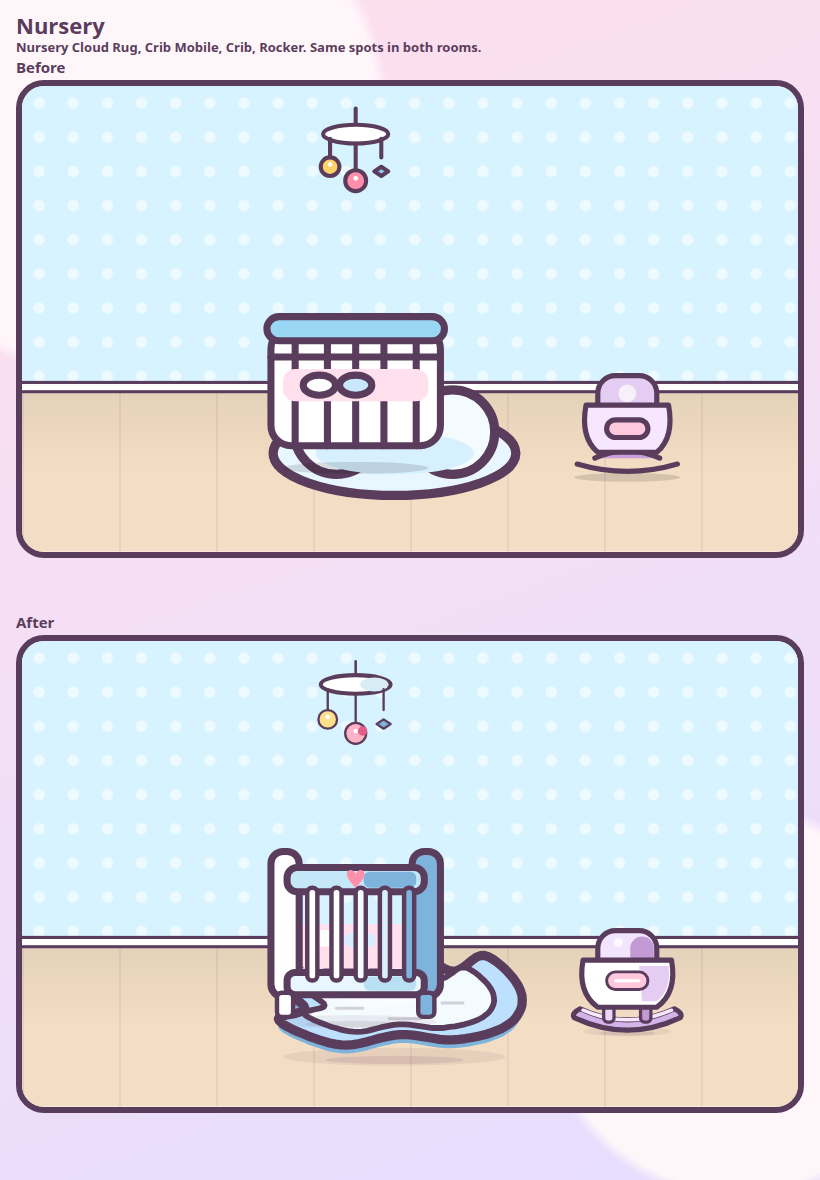
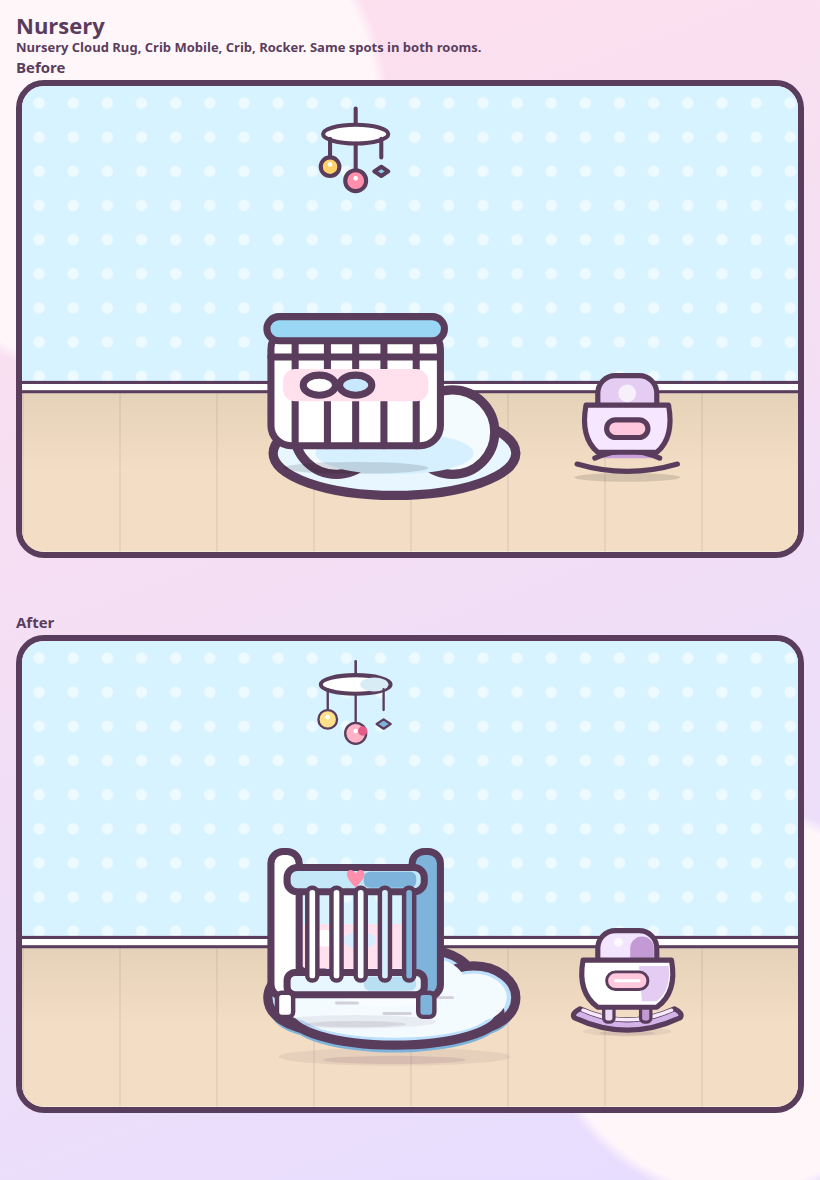
Draw the nursery cloud rug as a flat puffy cloud.
The outline is a smooth scallop with a bound border, light pile, and a contact shadow, at the same footprint as Sunny Cloud and Cloud Rug.

Changed region(s): [[0.3354, 0.7932, 0.6402, 0.9153], [0.3049, 0.8237, 0.3354, 0.8542]]

diff --git a/src/art/hand.ts b/src/art/hand.ts
@@ -232,12 +232,26 @@ export const HAND: Record<string, V2Mark> = {
   `) },
 
   'cloud-rug': { vb: VB, body: pack(`
-    ${sh(50, 42)}
-    <g transform="translate(0,3.2)"><path d="M16 78 L15.6 77 L14.4 75.9 L12.7 74.6 L10.9 73.3 L9 71.9 L7.4 70.5 L6.3 69.2 L6 68 L6.4 66.8 L7.4 65.6 L8.8 64.3 L10.5 63.1 L12.4 62 L14.3 61.1 L16.3 60.4 L18 60 L19.7 60 L21.4 60.4 L23.2 61.1 L25 62 L26.8 62.9 L28.6 63.6 L30.3 64 L32 64 L33.6 63.5 L35.1 62.7 L36.6 61.5 L38 60.3 L39.4 58.9 L40.9 57.7 L42.4 56.7 L44 56 L45.7 55.6 L47.4 55.3 L49.1 55.1 L50.9 55 L52.7 55.1 L54.5 55.3 L56.2 55.6 L58 56 L59.8 56.7 L61.5 57.8 L63.3 59 L65.1 60.4 L66.9 61.7 L68.6 62.8 L70.3 63.6 L72 64 L73.6 63.8 L75.1 63.1 L76.6 62.1 L78.1 60.9 L79.6 59.7 L81 58.7 L82.5 58.1 L84 58 L85.6 58.5 L87.2 59.4 L88.9 60.6 L90.6 62 L92.2 63.5 L93.7 65.1 L95 66.6 L96 68 L96.8 69.3 L97.4 70.5 L97.9 71.8 L98.3 73.1 L98.4 74.4 L98.4 75.6 L98.3 76.8 L98 78 L97.5 79.1 L96.9 80.2 L96.2 81.3 L95.3 82.4 L94.2 83.4 L92.9 84.3 L91.5 85.2 L90 86 L88.2 86.7 L86.3 87.4 L84.1 88.1 L81.8 88.6 L79.3 89.1 L76.9 89.5 L74.4 89.8 L72 90 L69.6 90 L67.1 89.8 L64.6 89.4 L62.1 89 L59.6 88.6 L57 88.2 L54.5 88 L52 88 L49.5 88.3 L46.9 88.8 L44.3 89.4 L41.8 90.1 L39.2 90.8 L36.7 91.4 L34.3 91.8 L32 92 L29.8 91.9 L27.6 91.6 L25.4 91.2 L23.4 90.6 L21.4 90 L19.5 89.3 L17.7 88.7 L16 88 L14.3 87.3 L12.6 86.6 L10.9 85.8 L9.4 85 L8 84.2 L7 83.4 L6.3 82.7 L6 82 L6.4 81.4 L7.6 81 L9.2 80.6 L11 80.3 L12.8 79.9 L14.4 79.4 L15.6 78.8 Z" fill="#7eb4dc"/></g>
-    <path d="M16 78 L15.6 77 L14.4 75.9 L12.7 74.6 L10.9 73.3 L9 71.9 L7.4 70.5 L6.3 69.2 L6 68 L6.4 66.8 L7.4 65.6 L8.8 64.3 L10.5 63.1 L12.4 62 L14.3 61.1 L16.3 60.4 L18 60 L19.7 60 L21.4 60.4 L23.2 61.1 L25 62 L26.8 62.9 L28.6 63.6 L30.3 64 L32 64 L33.6 63.5 L35.1 62.7 L36.6 61.5 L38 60.3 L39.4 58.9 L40.9 57.7 L42.4 56.7 L44 56 L45.7 55.6 L47.4 55.3 L49.1 55.1 L50.9 55 L52.7 55.1 L54.5 55.3 L56.2 55.6 L58 56 L59.8 56.7 L61.5 57.8 L63.3 59 L65.1 60.4 L66.9 61.7 L68.6 62.8 L70.3 63.6 L72 64 L73.6 63.8 L75.1 63.1 L76.6 62.1 L78.1 60.9 L79.6 59.7 L81 58.7 L82.5 58.1 L84 58 L85.6 58.5 L87.2 59.4 L88.9 60.6 L90.6 62 L92.2 63.5 L93.7 65.1 L95 66.6 L96 68 L96.8 69.3 L97.4 70.5 L97.9 71.8 L98.3 73.1 L98.4 74.4 L98.4 75.6 L98.3 76.8 L98 78 L97.5 79.1 L96.9 80.2 L96.2 81.3 L95.3 82.4 L94.2 83.4 L92.9 84.3 L91.5 85.2 L90 86 L88.2 86.7 L86.3 87.4 L84.1 88.1 L81.8 88.6 L79.3 89.1 L76.9 89.5 L74.4 89.8 L72 90 L69.6 90 L67.1 89.8 L64.6 89.4 L62.1 89 L59.6 88.6 L57 88.2 L54.5 88 L52 88 L49.5 88.3 L46.9 88.8 L44.3 89.4 L41.8 90.1 L39.2 90.8 L36.7 91.4 L34.3 91.8 L32 92 L29.8 91.9 L27.6 91.6 L25.4 91.2 L23.4 90.6 L21.4 90 L19.5 89.3 L17.7 88.7 L16 88 L14.3 87.3 L12.6 86.6 L10.9 85.8 L9.4 85 L8 84.2 L7 83.4 L6.3 82.7 L6 82 L6.4 81.4 L7.6 81 L9.2 80.6 L11 80.3 L12.8 79.9 L14.4 79.4 L15.6 78.8 Z" fill="#bde0fe" ${ink()}/>
-    <path d="M23.5 76.9 L23.2 76.2 L22.2 75.4 L21 74.5 L19.5 73.5 L18.1 72.5 L16.8 71.5 L16 70.6 L15.7 69.7 L16 68.8 L16.8 67.9 L17.9 67 L19.2 66.2 L20.6 65.4 L22.2 64.7 L23.6 64.2 L25 63.9 L26.3 63.9 L27.7 64.2 L29.1 64.7 L30.5 65.3 L31.9 66 L33.3 66.5 L34.7 66.8 L36 66.8 L37.2 66.5 L38.4 65.8 L39.5 65 L40.7 64.1 L41.8 63.1 L42.9 62.2 L44.1 61.5 L45.3 61 L46.6 60.7 L47.9 60.5 L49.3 60.3 L50.6 60.3 L52 60.3 L53.4 60.5 L54.8 60.7 L56.2 61 L57.6 61.5 L59 62.3 L60.4 63.2 L61.8 64.2 L63.2 65.1 L64.6 65.9 L65.9 66.5 L67.2 66.8 L68.4 66.7 L69.6 66.2 L70.8 65.4 L72 64.6 L73.1 63.7 L74.2 63 L75.3 62.6 L76.5 62.5 L77.7 62.8 L79 63.5 L80.4 64.4 L81.7 65.4 L82.9 66.5 L84.1 67.6 L85.1 68.7 L85.9 69.7 L86.5 70.6 L87 71.5 L87.4 72.5 L87.6 73.4 L87.7 74.3 L87.8 75.2 L87.6 76.1 L87.4 76.9 L87 77.7 L86.6 78.5 L86 79.3 L85.3 80 L84.4 80.7 L83.5 81.4 L82.4 82 L81.2 82.6 L79.8 83.1 L78.3 83.6 L76.6 84.1 L74.8 84.5 L72.9 84.9 L71 85.1 L69.1 85.4 L67.2 85.5 L65.3 85.5 L63.4 85.4 L61.5 85.1 L59.5 84.8 L57.5 84.5 L55.5 84.2 L53.6 84.1 L51.6 84.1 L49.6 84.3 L47.6 84.7 L45.6 85.1 L43.6 85.6 L41.6 86.1 L39.7 86.6 L37.8 86.9 L36 87 L34.3 86.9 L32.5 86.7 L30.9 86.4 L29.3 86 L27.7 85.5 L26.2 85.1 L24.8 84.6 L23.5 84.1 L22.2 83.6 L20.9 83.1 L19.5 82.5 L18.3 81.9 L17.3 81.4 L16.4 80.8 L15.9 80.3 L15.7 79.8 L16 79.4 L16.9 79.1 L18.2 78.8 L19.6 78.5 L21 78.2 L22.3 77.9 L23.2 77.5 Z" fill="#f4fbff" ${ink(2.2)}/>
-    <ellipse cx="44" cy="74" rx="14" ry="3.6" fill="#fff" opacity=".55"/>
-    <path d="M28 78 h10 M48 82 h12 M68 76 h8" fill="none" stroke="${O}" stroke-width="1.1" stroke-linecap="round" opacity=".22"/>
+    ${sh(50, 44)}
+    <g transform="translate(0,2.8)">
+      <ellipse cx="20" cy="74" rx="18" ry="12" fill="#7eb4dc"/>
+      <ellipse cx="38" cy="68" rx="18" ry="12" fill="#7eb4dc"/>
+      <ellipse cx="62" cy="68" rx="18" ry="12" fill="#7eb4dc"/>
+      <ellipse cx="80" cy="74" rx="16" ry="12" fill="#7eb4dc"/>
+      <ellipse cx="50" cy="80" rx="40" ry="12" fill="#7eb4dc"/>
+    </g>
+    <ellipse cx="20" cy="74" rx="18" ry="12" fill="#bde0fe" ${ink()}/>
+    <ellipse cx="38" cy="68" rx="18" ry="12" fill="#bde0fe" ${ink()}/>
+    <ellipse cx="62" cy="68" rx="18" ry="12" fill="#bde0fe" ${ink()}/>
+    <ellipse cx="80" cy="74" rx="16" ry="12" fill="#bde0fe" ${ink()}/>
+    <ellipse cx="50" cy="80" rx="40" ry="12" fill="#bde0fe" ${ink()}/>
+    <ellipse cx="20" cy="74" rx="14.6" ry="9.2" fill="#f4fbff"/>
+    <ellipse cx="38" cy="68" rx="14.6" ry="9.2" fill="#f4fbff"/>
+    <ellipse cx="62" cy="68" rx="14.6" ry="9.2" fill="#f4fbff"/>
+    <ellipse cx="80" cy="74" rx="12.6" ry="9.2" fill="#f4fbff"/>
+    <ellipse cx="50" cy="80" rx="36" ry="9.2" fill="#f4fbff"/>
+    <ellipse cx="46" cy="74" rx="14" ry="3.4" fill="#fff" opacity=".55"/>
+    <path d="M28 76 h8 M46 80 h10 M64 74 h8" fill="none" stroke="${O}" stroke-width="1.1" stroke-linecap="round" opacity=".22"/>
   `) },
 
   'crib-mobile': { vb: VB, body: pack(`
